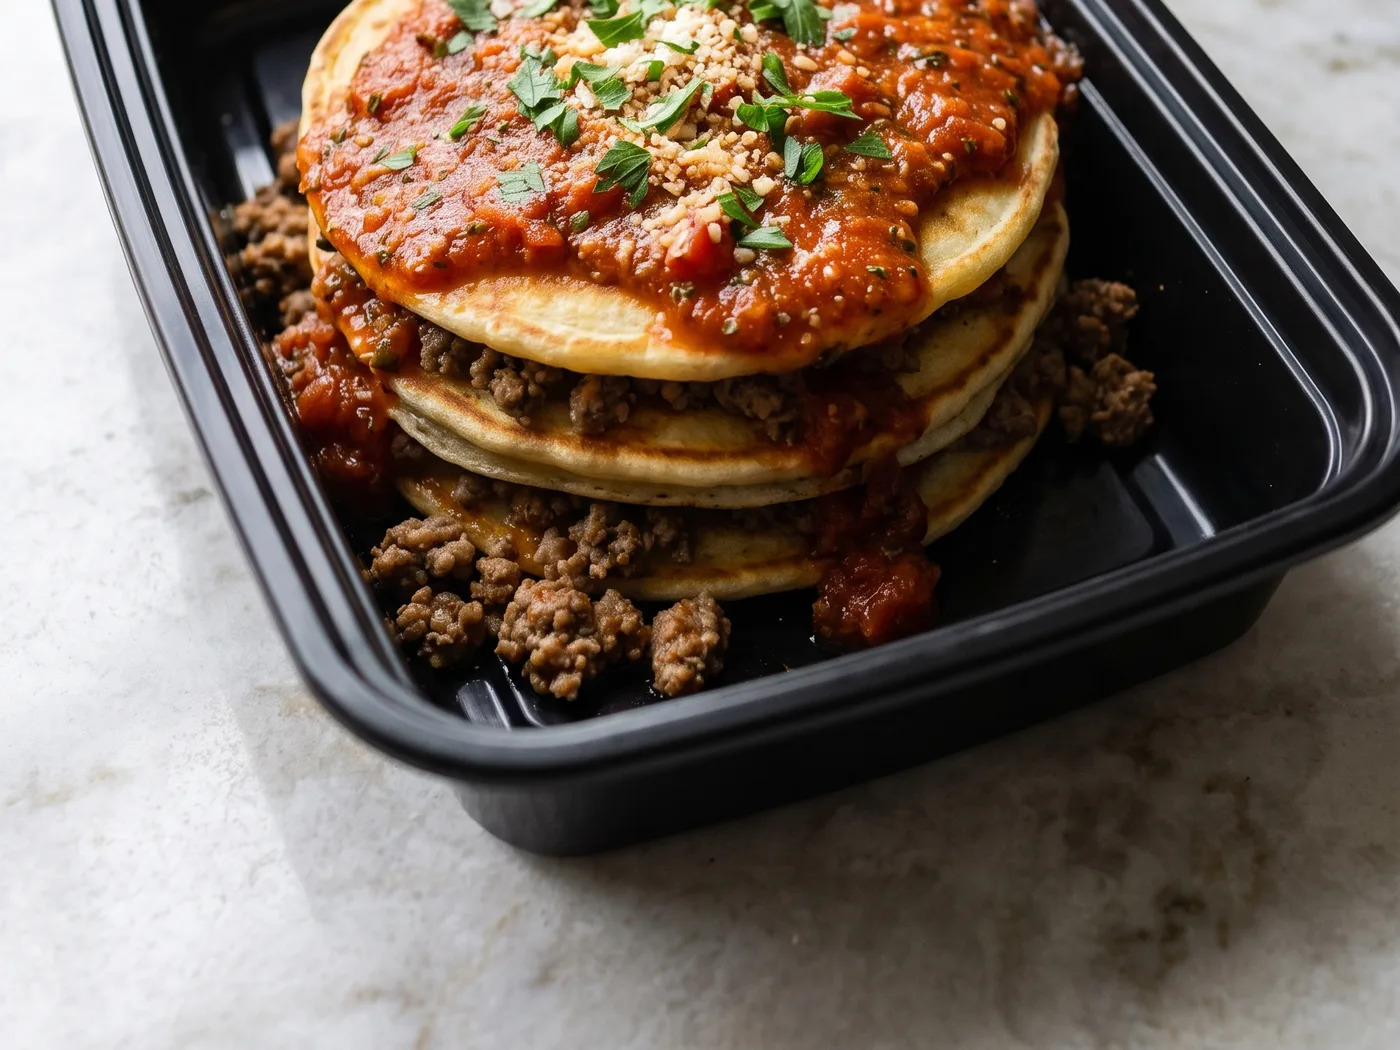
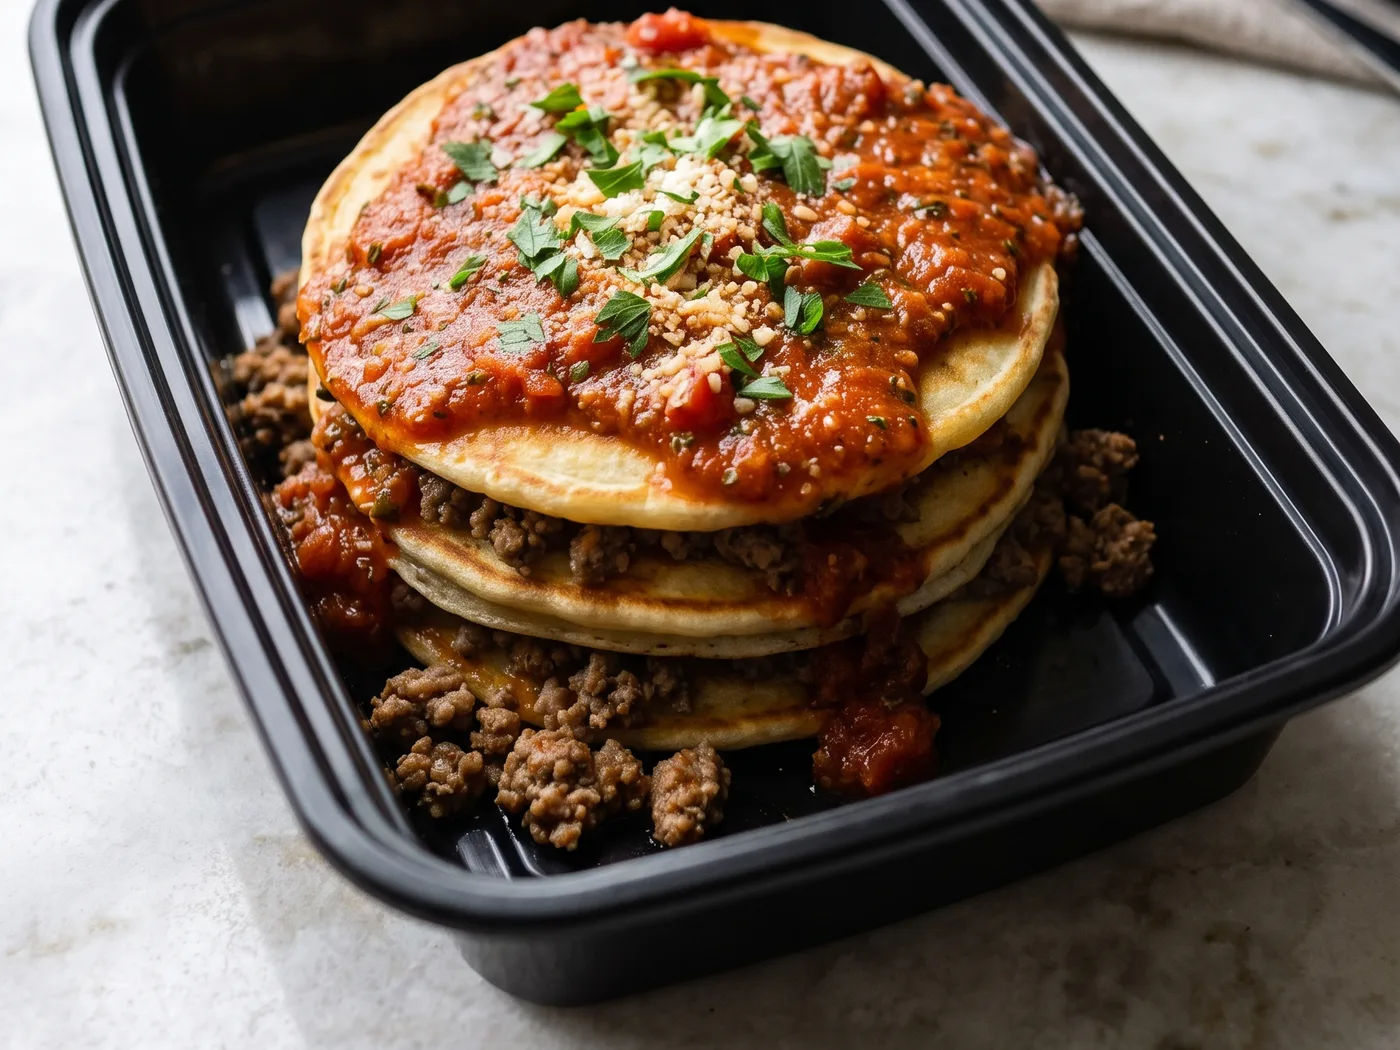
fix(receitas): capas deixam de ser cortadas duas vezes
As fotos estavam gravadas em 4:3 e o cartao exibia em 16:9. Corte em cima de
corte: a marmita aparecia decepada e tudo ficava com cara de zoom.

Consertei o lado errado. A proporcao nao e escolha de gosto aqui, e
aritmetica - as fotos originais sao verticais (3:4), entao a faixa que cada
proporcao consegue capturar da altura e:

  16:9 -> 42% da foto  (a marmita nao cabe)
  3:2  -> 50%          (ainda apertado)
  4:3  -> 56%          (o recipiente inteiro aparece)

Entao 4:3 estava certo desde o inicio; o que precisava mudar era o cartao.
Lista e detalhe agora usam a mesma proporcao do arquivo gravado, e o corte
acontece uma vez so - no lugar onde eu escolho o enquadramento.

Tentei antes gravar em 16:9 para casar com o cartao, mas o resultado era
pior: a faixa e estreita demais e a foto virava um close sem contexto.

Entra tambem ajuste de enquadramento por receita. A constante unica serve
para prato montado dentro da marmita, que e a maioria, mas prato alto como a
pilha de panqueca sobe no quadro e encostava na borda de cima.

diff --git a/app/app/receitas/page.tsx b/app/app/receitas/page.tsx
@@ -79,7 +79,7 @@ export default async function ReceitasPage({
                     objetivo={receita.objetivo}
                     imagemUrl={receita.imagem_url}
                     prioridade={indice < 3}
-                    className="aspect-[16/9] w-full"
+                    className="aspect-[4/3] w-full"
                   />
 
                   <div className="flex flex-1 flex-col p-5">
